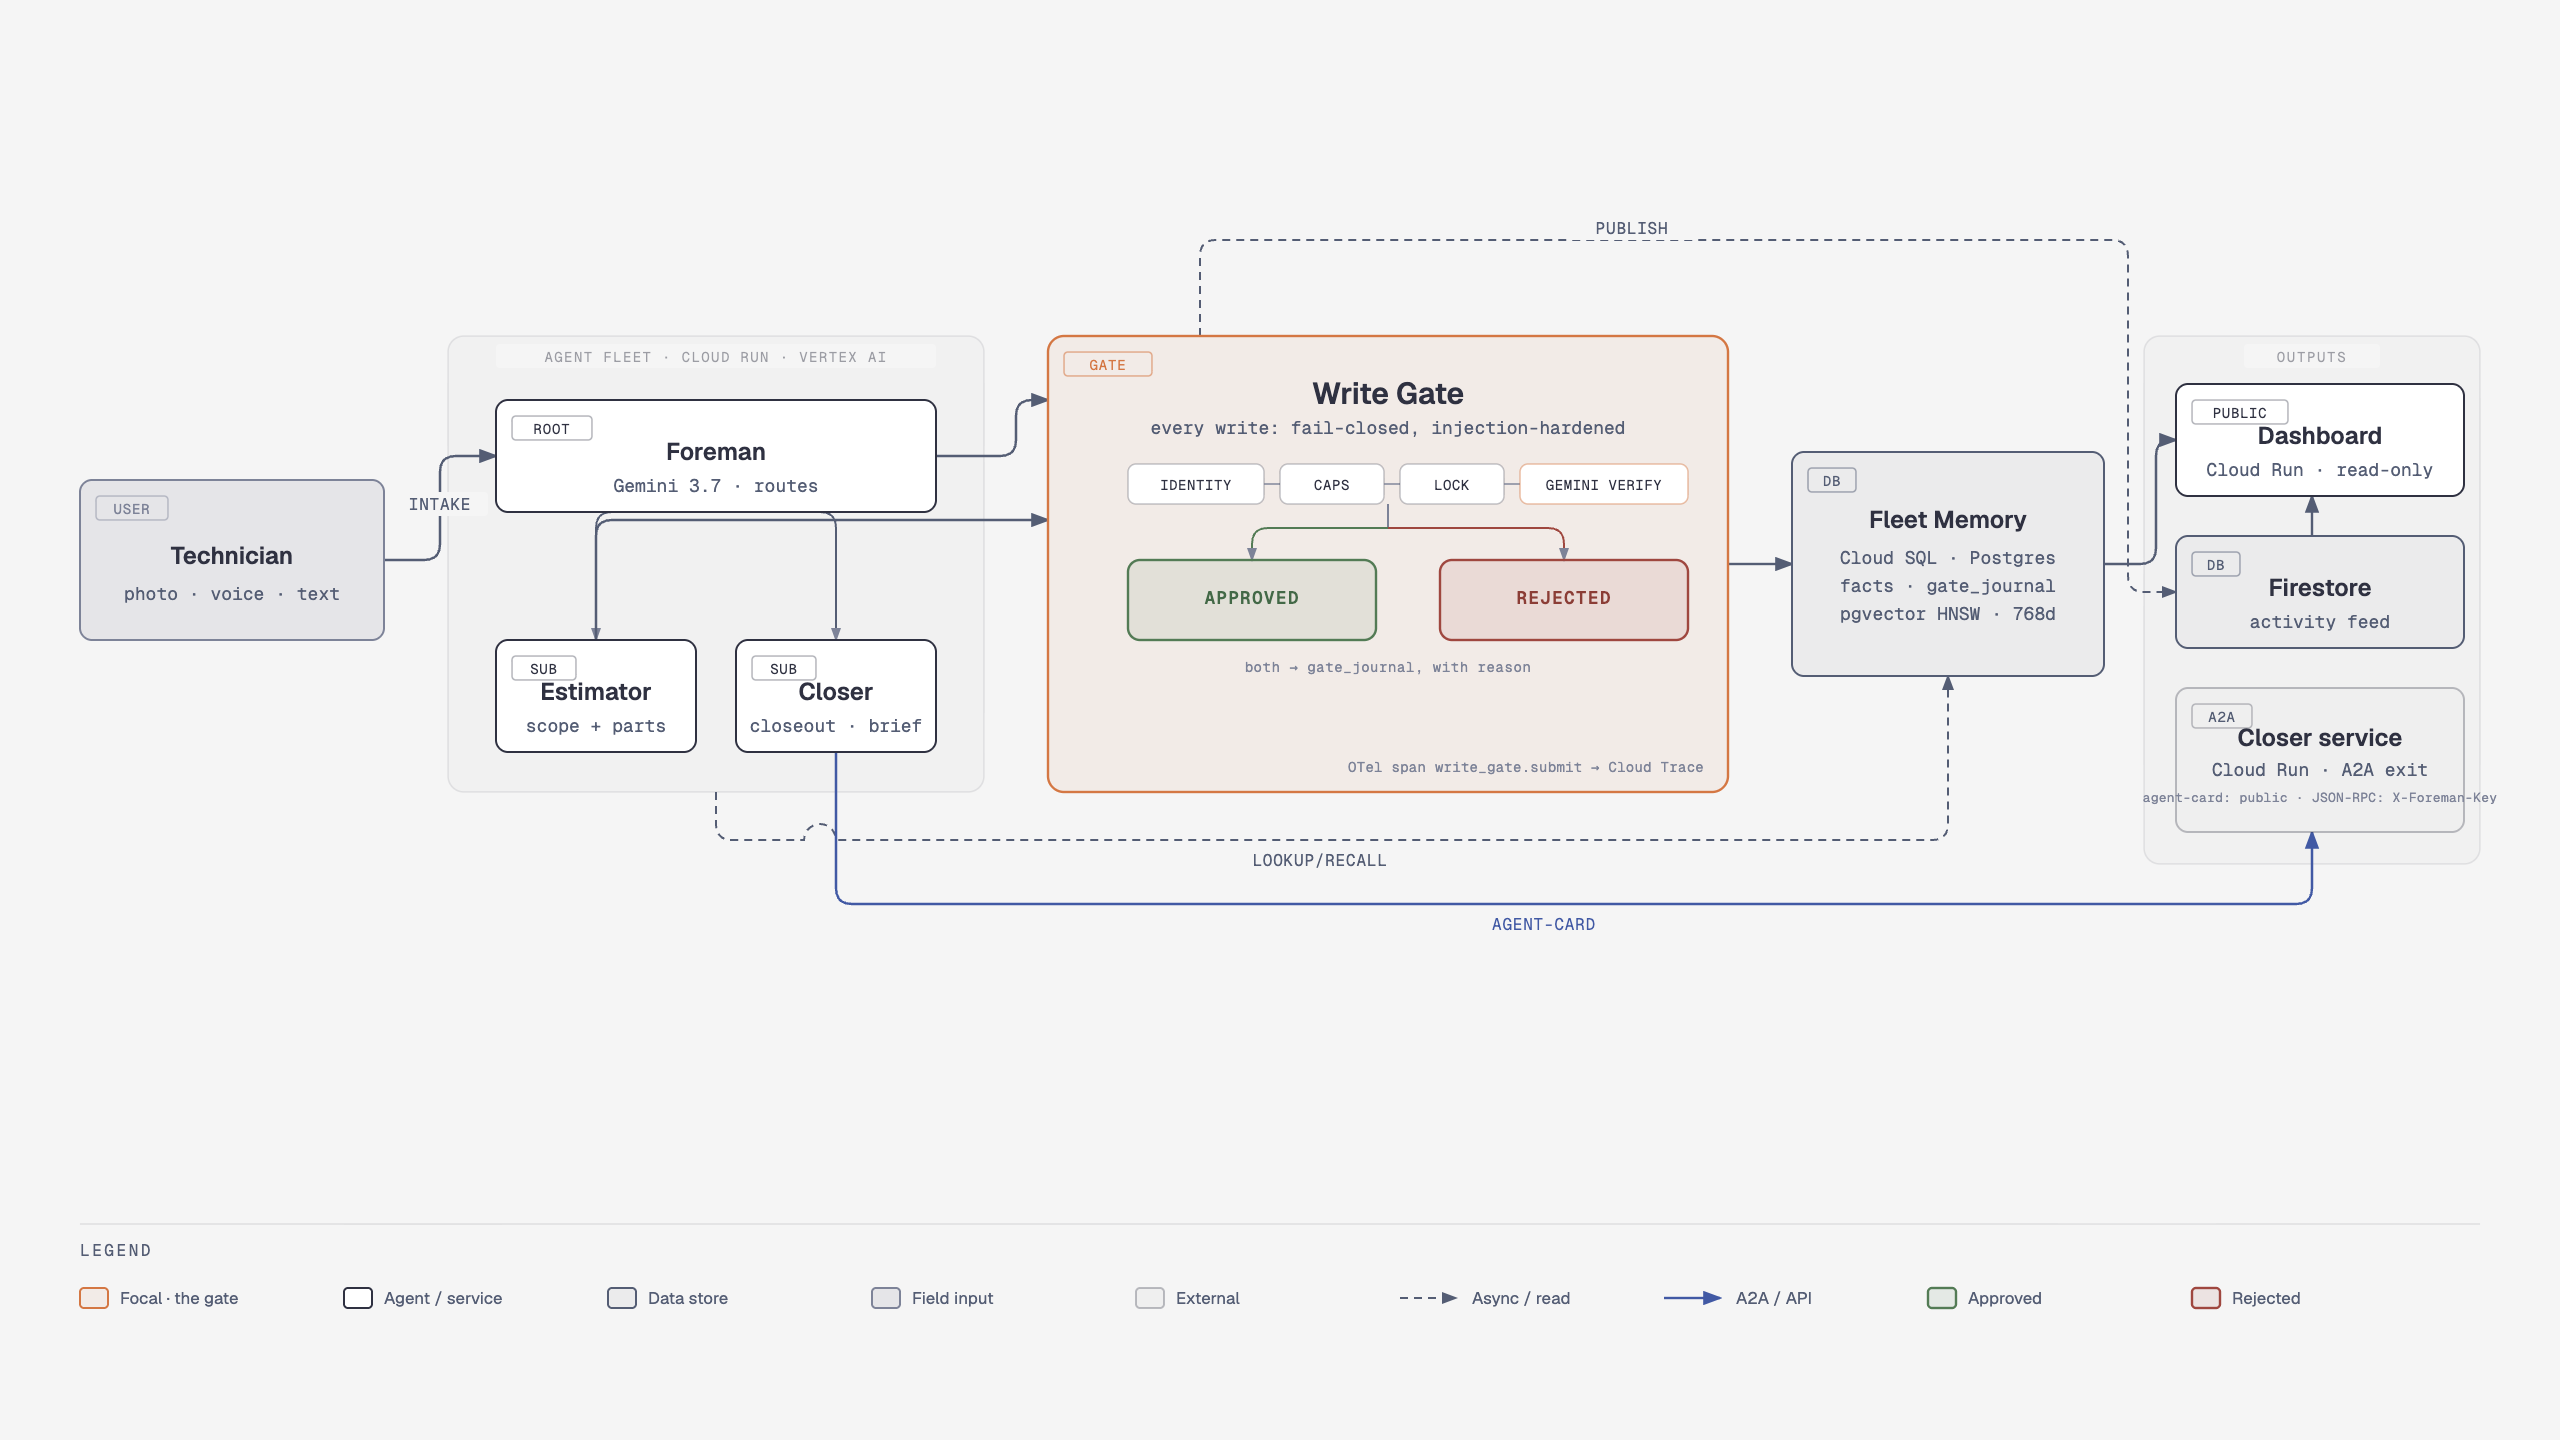
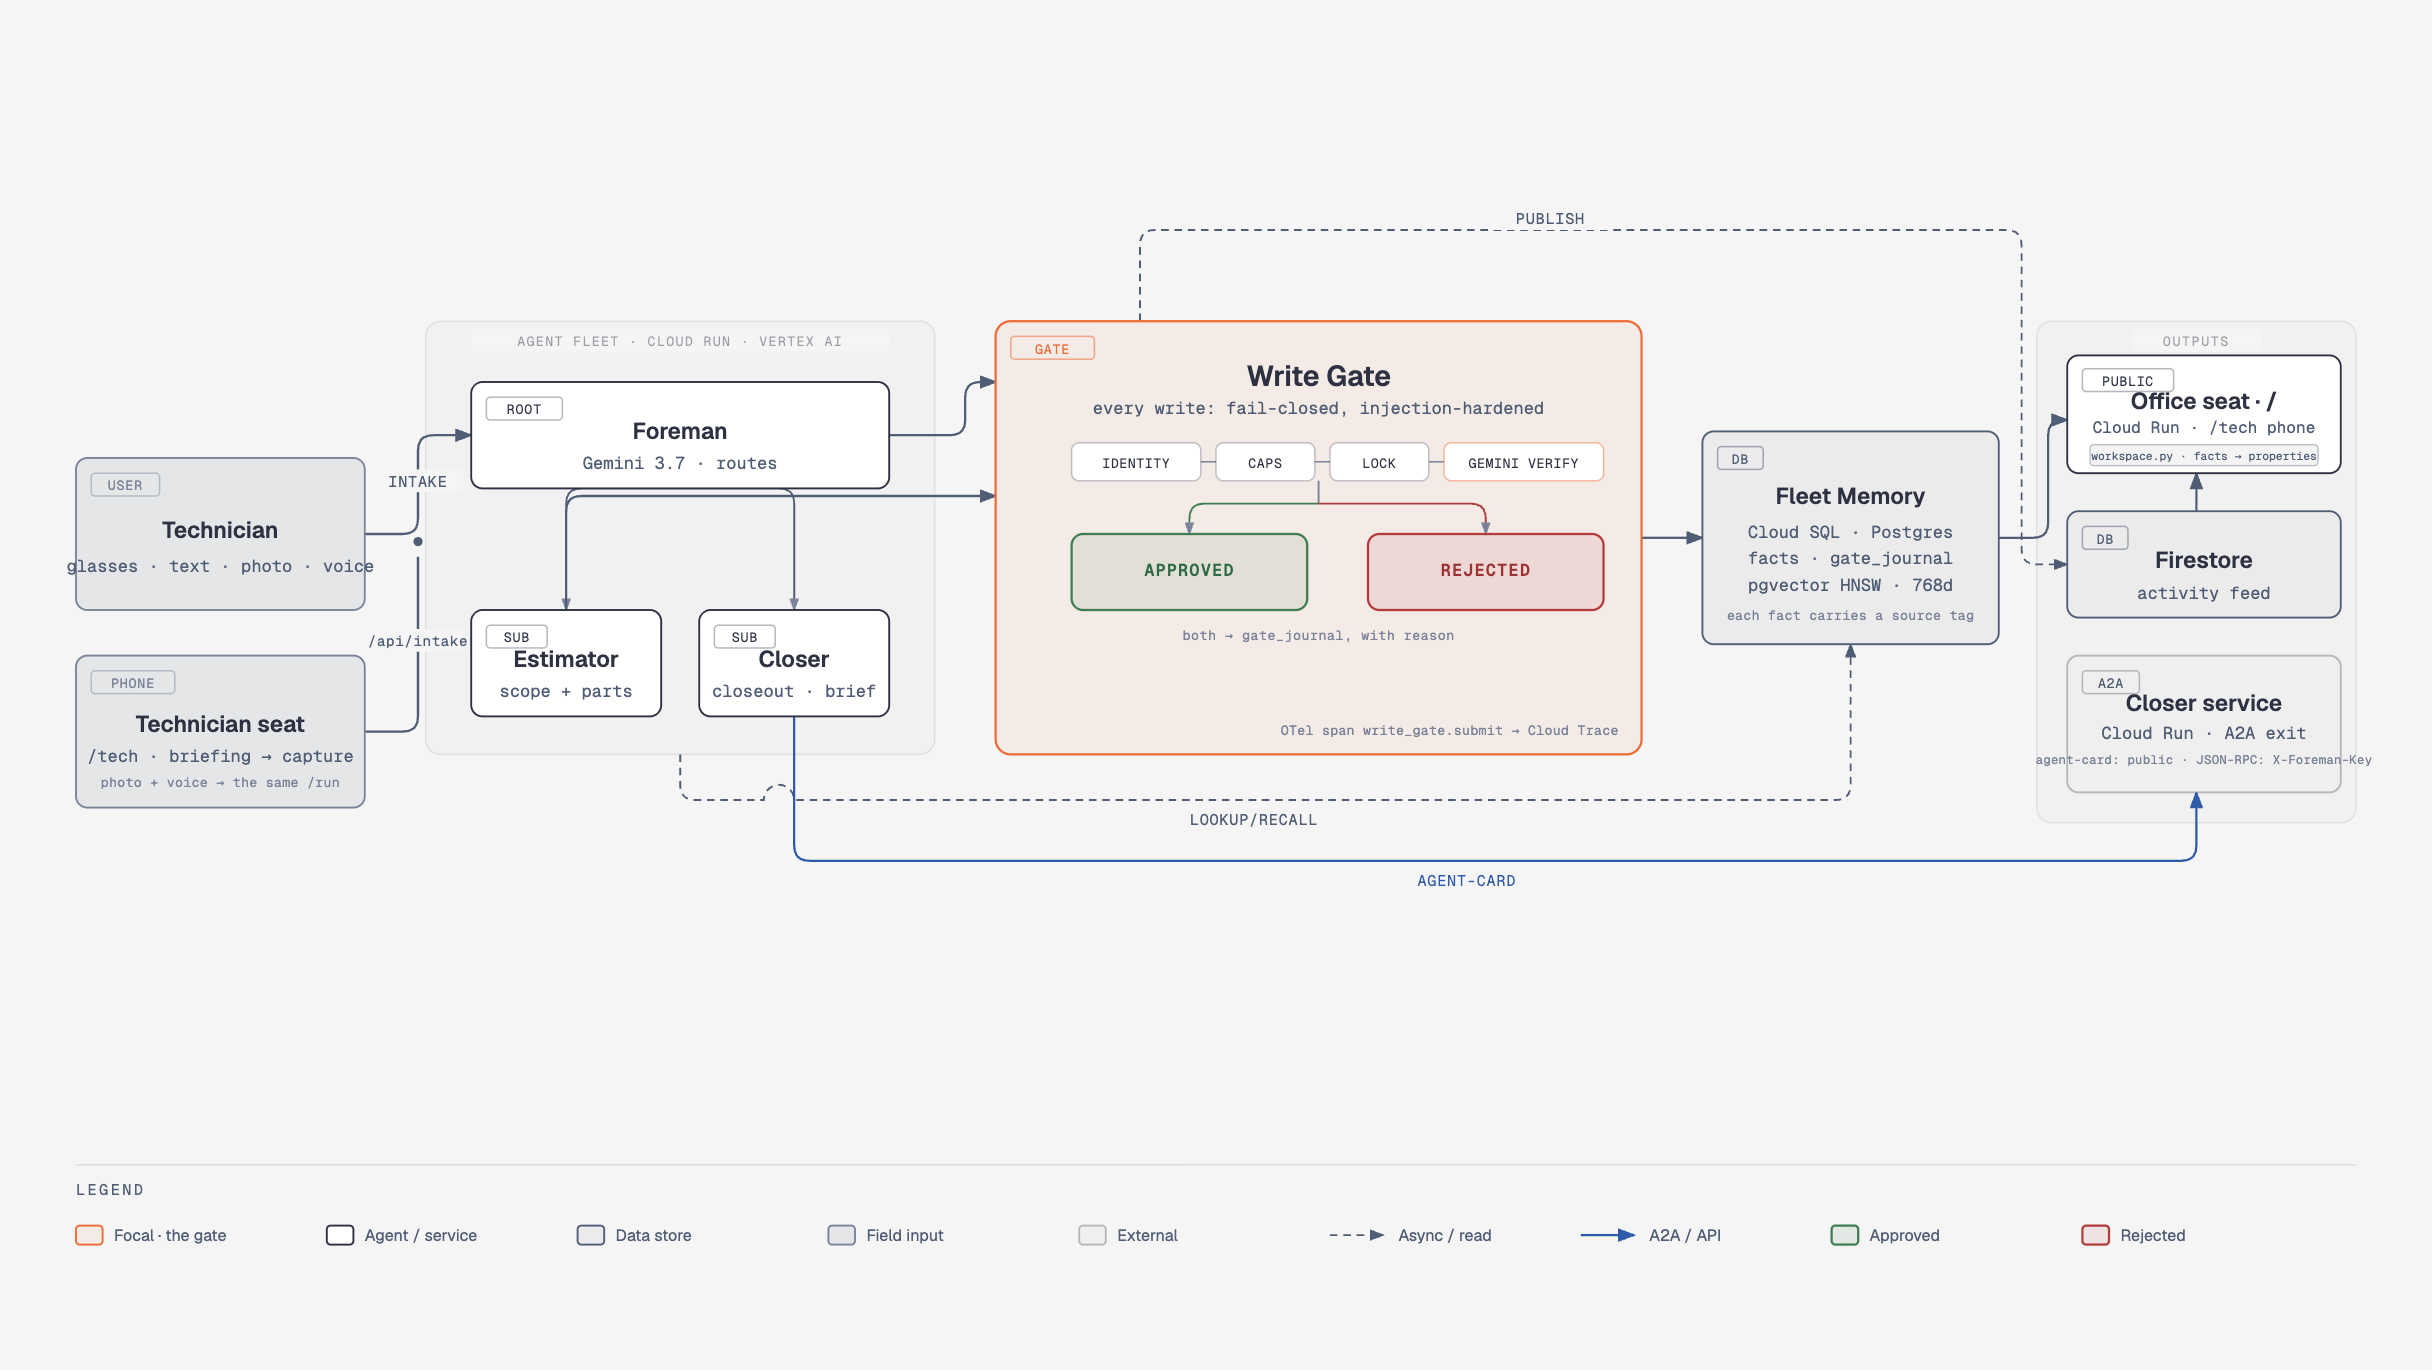
architecture diagram: office and technician seats, intake path, source tags

diff --git a/docs/architecture/foreman-architecture.html b/docs/architecture/foreman-architecture.html
@@ -65,11 +65,11 @@
   <div class="frame">
     <p class="eyebrow">Architecture · Diagram Design</p>
     <h1>Foreman+ — gated multi-agent memory for HVAC field techs</h1>
-    <p class="subtitle">Photo / voice / text intake routes through an ADK agent fleet on Cloud Run. Every write to shared fleet memory passes one gate — identity, caps, an advisory lock, and a Gemini verifier — before it lands in Postgres. The closer agent doubles as a CRM-agnostic A2A service; a read-only dashboard and Firestore feed give live visibility.</p>
+    <p class="subtitle">Photo / voice / text intake — from the technician's phone (/tech) or glasses — routes through an ADK agent fleet on Cloud Run. Every write to shared fleet memory passes one gate — identity, caps, an advisory lock, and a Gemini verifier — before it lands in Postgres. The closer agent doubles as a CRM-agnostic A2A service; the office seat (/) derives property records from the same gated facts, every one tagged with its source; a Firestore feed gives live visibility.</p>
 
     <svg viewBox="0 0 1280 720" xmlns="http://www.w3.org/2000/svg" role="img" aria-labelledby="foreman-arch-title foreman-arch-desc">
       <title id="foreman-arch-title">Foreman+ multi-agent architecture</title>
-      <desc id="foreman-arch-desc">Architecture diagram showing a technician's photo, voice, and text reports flowing into an ADK agent fleet (foreman, estimator, closer) on Cloud Run, whose every fact write passes a central write gate — identity check, caps, an advisory lock, and a fail-closed Gemini verifier — before landing in a bi-temporal Postgres fact store with pgvector recall; approved and rejected outcomes both journal. The gate best-effort publishes to a Firestore activity feed and a public read-only dashboard reads Postgres and Firestore; the closer agent is separately exposed as a CRM-agnostic A2A service behind a shared-secret guard.</desc>
+      <desc id="foreman-arch-desc">Architecture diagram showing a technician's photo, voice, and text reports flowing into an ADK agent fleet (foreman, estimator, closer) on Cloud Run, whose every fact write passes a central write gate — identity check, caps, an advisory lock, and a fail-closed Gemini verifier — before landing in a bi-temporal Postgres fact store with pgvector recall; approved and rejected outcomes both journal. Every fact carries a source tag (nameplate photo, technician voice, homeowner statement, plate unreadable). The gate best-effort publishes to a Firestore activity feed; the public dashboard serves two seats — the office seat derives property records, briefings and open questions from Postgres facts and the gate journal, and the technician seat on a phone forwards photo and voice through POST /api/intake to the fleet's /run; the closer agent is separately exposed as a CRM-agnostic A2A service behind a shared-secret guard.</desc>
 
       <defs>
         <marker id="arrow" markerWidth="8" markerHeight="6" refX="7" refY="3" orient="auto"><polygon points="0 0, 8 3, 0 6" fill="#4f5d75"/></marker>
@@ -98,6 +98,13 @@
             fill="none" stroke="#4f5d75" stroke-width="1.2" marker-end="url(#arrow)"/>
       <rect x="196" y="246" width="48" height="12" rx="2" fill="#f5f5f5"/>
       <text x="220" y="255" fill="#4f5d75" font-size="8" font-family="'Geist Mono', monospace" text-anchor="middle" letter-spacing="0.05em">INTAKE</text>
+
+      <!-- A12 Technician seat (phone) -> Foreman: joins the INTAKE bus at x=220 (POST /api/intake → fleet /run) -->
+      <path d="M 192,384 H 212 Q 220,384 220,376 V 292"
+            fill="none" stroke="#4f5d75" stroke-width="1.2"/>
+      <circle cx="220" cy="284" r="2.4" fill="#4f5d75"/>
+      <rect x="196" y="330" width="48" height="12" rx="2" fill="#f5f5f5"/>
+      <text x="220" y="339" fill="#4f5d75" font-size="7.5" font-family="'Geist Mono', monospace" text-anchor="middle" letter-spacing="0.04em">/api/intake</text>
 
       <!-- A2 Foreman -> Estimator (internal, unlabeled — hierarchy reads from layout) -->
       <path d="M 358,256 H 306 Q 298,256 298,264 V 320"
@@ -151,7 +158,16 @@
       <rect x="48" y="248" width="36" height="12" rx="2" fill="transparent" stroke="rgba(122,131,153,0.45)" stroke-width="0.8"/>
       <text x="66" y="257" fill="#7a8399" font-size="7" font-family="'Geist Mono', monospace" text-anchor="middle" letter-spacing="0.06em">USER</text>
       <text x="116" y="282" fill="#2d3142" font-size="12" font-weight="600" font-family="'Geist', sans-serif" text-anchor="middle">Technician</text>
-      <text x="116" y="300" fill="#4f5d75" font-size="9" font-family="'Geist Mono', monospace" text-anchor="middle">photo · voice · text</text>
+      <text x="116" y="300" fill="#4f5d75" font-size="9" font-family="'Geist Mono', monospace" text-anchor="middle">glasses · text · photo · voice</text>
+
+      <!-- N1b Technician seat (Input, phone) -->
+      <rect x="40" y="344" width="152" height="80" rx="6" fill="#f5f5f5"/>
+      <rect x="40" y="344" width="152" height="80" rx="6" fill="rgba(79,93,117,0.10)" stroke="#7a8399" stroke-width="1"/>
+      <rect x="48" y="352" width="44" height="12" rx="2" fill="transparent" stroke="rgba(122,131,153,0.45)" stroke-width="0.8"/>
+      <text x="70" y="361" fill="#7a8399" font-size="7" font-family="'Geist Mono', monospace" text-anchor="middle" letter-spacing="0.06em">PHONE</text>
+      <text x="116" y="384" fill="#2d3142" font-size="12" font-weight="600" font-family="'Geist', sans-serif" text-anchor="middle">Technician seat</text>
+      <text x="116" y="400" fill="#4f5d75" font-size="9" font-family="'Geist Mono', monospace" text-anchor="middle">/tech · briefing → capture</text>
+      <text x="116" y="413" fill="#7a8399" font-size="7" font-family="'Geist Mono', monospace" text-anchor="middle" letter-spacing="0.02em">photo + voice → the same /run</text>
 
       <!-- N2 Foreman (root agent) -->
       <rect x="248" y="200" width="220" height="56" rx="6" fill="#f5f5f5"/>
@@ -221,14 +237,17 @@
       <text x="974" y="282" fill="#4f5d75" font-size="9" font-family="'Geist Mono', monospace" text-anchor="middle">Cloud SQL · Postgres</text>
       <text x="974" y="296" fill="#4f5d75" font-size="9" font-family="'Geist Mono', monospace" text-anchor="middle">facts · gate_journal</text>
       <text x="974" y="310" fill="#4f5d75" font-size="9" font-family="'Geist Mono', monospace" text-anchor="middle">pgvector HNSW · 768d</text>
+      <text x="974" y="325" fill="#7a8399" font-size="7" font-family="'Geist Mono', monospace" text-anchor="middle" letter-spacing="0.02em">each fact carries a source tag</text>
 
       <!-- N7 Dashboard (Backend, public) -->
-      <rect x="1088" y="192" width="144" height="56" rx="6" fill="#f5f5f5"/>
-      <rect x="1088" y="192" width="144" height="56" rx="6" fill="#ffffff" stroke="#2d3142" stroke-width="1"/>
-      <rect x="1096" y="200" width="48" height="12" rx="2" fill="transparent" stroke="rgba(45,49,66,0.35)" stroke-width="0.8"/>
-      <text x="1120" y="209" fill="#2d3142" font-size="7" font-family="'Geist Mono', monospace" text-anchor="middle" letter-spacing="0.05em">PUBLIC</text>
-      <text x="1160" y="222" fill="#2d3142" font-size="12" font-weight="600" font-family="'Geist', sans-serif" text-anchor="middle">Dashboard</text>
-      <text x="1160" y="238" fill="#4f5d75" font-size="9" font-family="'Geist Mono', monospace" text-anchor="middle">Cloud Run · read-only</text>
+      <rect x="1088" y="186" width="144" height="62" rx="6" fill="#f5f5f5"/>
+      <rect x="1088" y="186" width="144" height="62" rx="6" fill="#ffffff" stroke="#2d3142" stroke-width="1"/>
+      <rect x="1096" y="193" width="48" height="12" rx="2" fill="transparent" stroke="rgba(45,49,66,0.35)" stroke-width="0.8"/>
+      <text x="1120" y="202" fill="#2d3142" font-size="7" font-family="'Geist Mono', monospace" text-anchor="middle" letter-spacing="0.05em">PUBLIC</text>
+      <text x="1160" y="214" fill="#2d3142" font-size="12" font-weight="600" font-family="'Geist', sans-serif" text-anchor="middle">Office seat · /</text>
+      <text x="1160" y="227" fill="#4f5d75" font-size="8.5" font-family="'Geist Mono', monospace" text-anchor="middle">Cloud Run · /tech phone</text>
+      <rect x="1100" y="233" width="120" height="11" rx="2" fill="rgba(45,49,66,0.05)" stroke="rgba(79,93,117,0.40)" stroke-width="0.7"/>
+      <text x="1160" y="241" fill="#4f5d75" font-size="6" font-family="'Geist Mono', monospace" text-anchor="middle" letter-spacing="0">workspace.py · facts → properties</text>
 
       <!-- N8 Firestore (Store) -->
       <rect x="1088" y="268" width="144" height="56" rx="6" fill="#f5f5f5"/>
